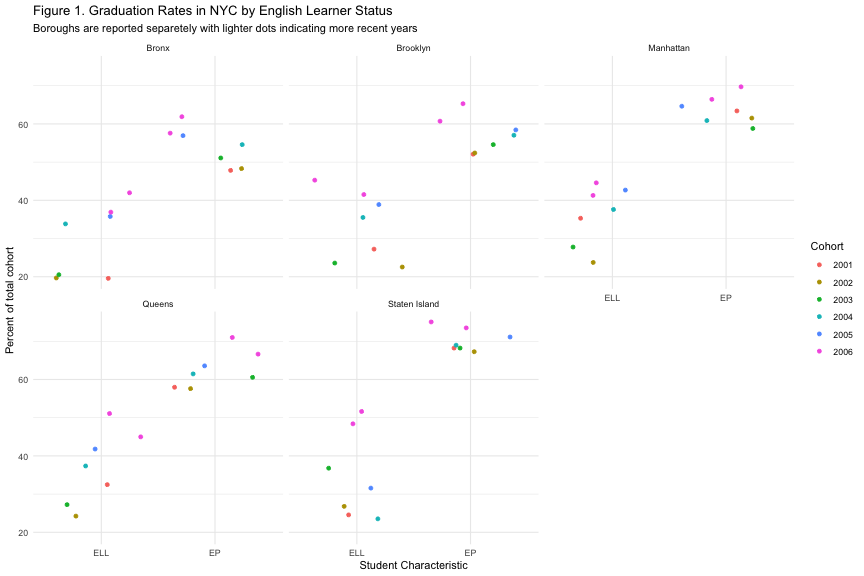
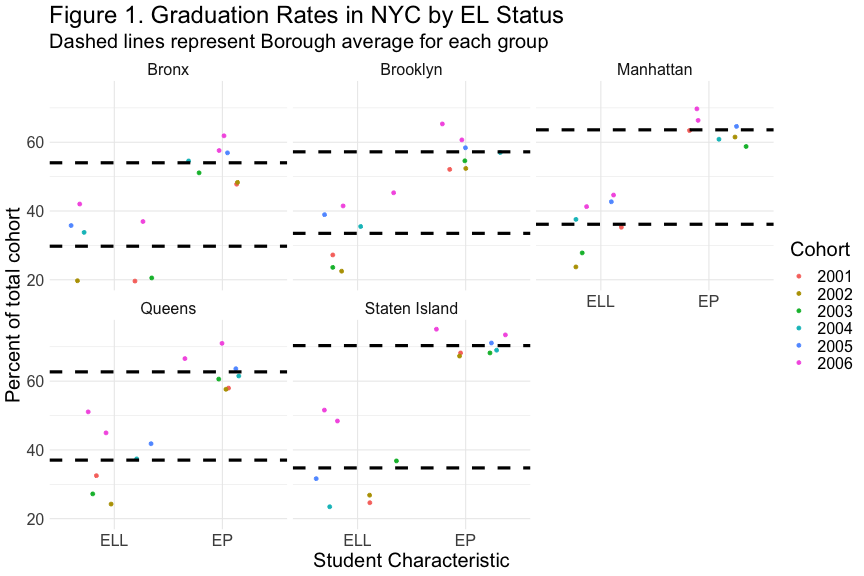
loan temp save

diff --git a/EDLD651_Final_Presentation.md b/EDLD651_Final_Presentation.md
@@ -97,8 +97,6 @@ Overcoming Challenges
 ====
 - .DS_store (Aaron)
   - solution: Collaboration!
-- GitHub (Chris)
-  - solution: Doing what works 
 - Presentation through R and coordinating (Anwesha)
   - solution: Self-teaching & Online Tutorials
 - Messy / Poorly Coded Data (Adam & Heidi)
@@ -123,6 +121,19 @@ Anwesha
 
 Chris
 ======================================================
+**Challenges**
+- Utilizing GitHub with Others
+- Regular Expression & `pivot_longer()` / `pivot_wider()`
+    - I have used these for other projects, but always wasted **lots of time**
+    - Previously would pivot one variable at a time and use `left_join()` or analogous
+
+***
+
+**Successess**
+
+- Learning to fork, do pull requests, etc. on GitHub
+- Better with `pivot_longer()` & `pivot_wider()`
+    - still don't get regular expression though :)
 
 Adam
 ======================================================
@@ -214,11 +225,15 @@ borough_data <- new_grad %>%
             mean_unclassified_pct = mean(unclassified_percent_of_cohort))
 ```
 
-EL Graph
+% Graduation by English Language Status
 ========================================================
 ![plot of chunk graph_results_EL_graph](EDLD651_Final_Presentation-figure/graph_results_EL_graph-1.png)
 
-SPED Graph
+% Graduation by Special Education Status
 ========================================================
 ![plot of chunk graph_results_SPED](EDLD651_Final_Presentation-figure/graph_results_SPED-1.png)
 
+Take-aways
+===
+** **
+Gaps between special education status appear relatively constant across borough, with some boroughs (e.g., Staten Island & Manhattan) having higher graduation percentages for both groups. 
